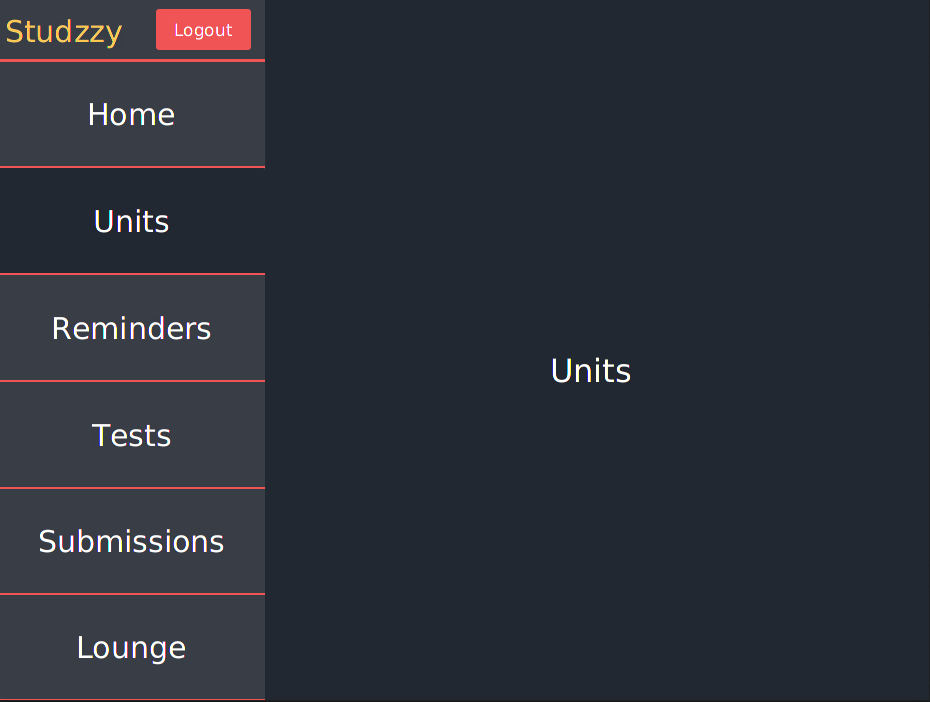
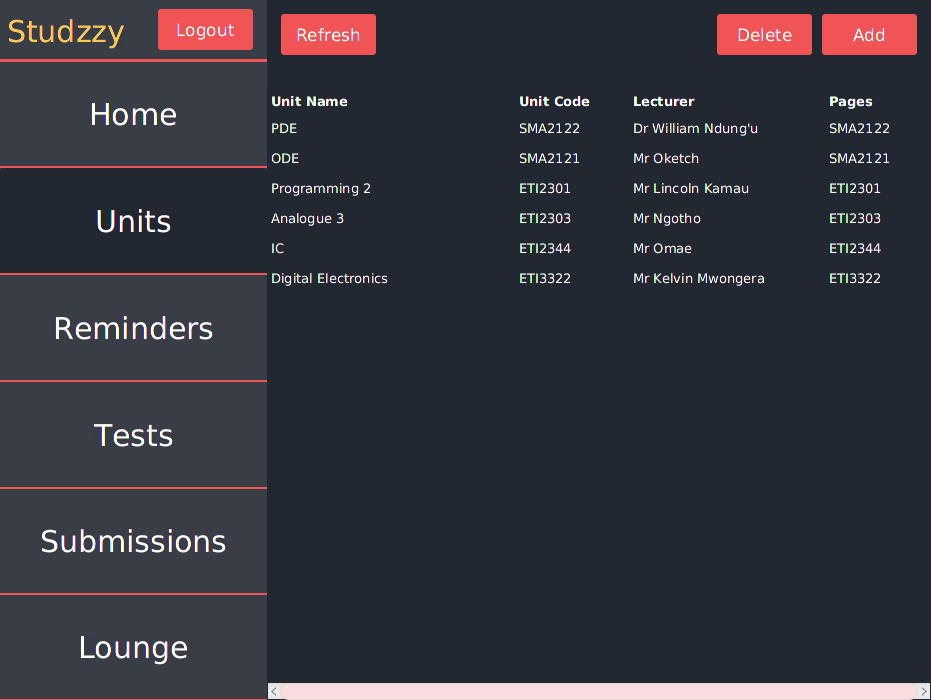
added the table view and enabled the search field

diff --git a/src/application/views/css/style.css b/src/application/views/css/style.css
@@ -85,17 +85,9 @@
     -fx-alignment: center-left;
     -fx-background-color: inherit;
     -fx-text-fill: white;
-    -fx-border-color: white;
-    -fx-border-width: 0 0 1 0;
+    -fx-border-width: 0;
 }
 
-.table-row-cell:selected {
-    -fx-background-color:  #F05454;
-}
-.table-row-cell:selected .text {
-    -fx-fill : white ;
-
-}
 /* scroll bar starts here */
 
 /* The increment and decrement button CSS class of scrollbar */
@@ -121,4 +113,14 @@
     -fx-background-insets: 2, 0, 0;
     -fx-background-radius: 2em;
 
+}
+
+.cta-dialog-box {
+    -fx-border-width: 2;
+    -fx-border-color: #F05454;
+    -fx-background-color: #393E46;
+}
+
+.cta-dialog-box .header-pane {
+    -fx-background-color: inherit;
 }

diff --git a/src/application/controllers/views/UnitsController.java b/src/application/controllers/views/UnitsController.java
@@ -3,24 +3,32 @@ package application.controllers.views;
 import application.controllers.UnitController;
 import application.models.Unit;
 import javafx.beans.Observable;
+import javafx.beans.value.ChangeListener;
+import javafx.beans.value.ObservableValue;
 import javafx.collections.FXCollections;
 import javafx.collections.ObservableList;
+import javafx.collections.transformation.FilteredList;
+import javafx.collections.transformation.SortedList;
 import javafx.event.ActionEvent;
 import javafx.fxml.FXML;
 import javafx.fxml.FXMLLoader;
+import javafx.fxml.Initializable;
 import javafx.scene.Node;
 import javafx.scene.Parent;
 import javafx.scene.Scene;
-import javafx.scene.control.Button;
-import javafx.scene.control.TableColumn;
-import javafx.scene.control.TableView;
+import javafx.scene.control.*;
+import javafx.scene.control.cell.PropertyValueFactory;
+import javafx.scene.layout.AnchorPane;
 import javafx.scene.layout.VBox;
 import javafx.stage.Stage;
 
 import java.io.IOException;
+import java.net.URL;
+import java.util.List;
 import java.util.Objects;
+import java.util.ResourceBundle;
 
-public class UnitsController {
+public class UnitsController implements Initializable {
 
     @FXML
     Button homeButton;
@@ -47,20 +55,81 @@ public class UnitsController {
     TableView<Unit> unitsTable;
 
     @FXML
-    VBox vBox;
+    TableColumn<Unit, String> unitNameCol;
 
-    public void populateTable(ActionEvent event) {
-        ObservableList<Unit> units = FXCollections.observableArrayList(UnitController.getUnits());
+    @FXML
+    TableColumn<Unit, String> unitCodeCol;
 
-        TableColumn<Unit, String> unitNameCol = new TableColumn<>("Unit Name");
-        TableColumn<Unit, String> unitCodeCol = new TableColumn<>("Unit Code");
-        TableColumn<Unit, String> unitLecCol = new TableColumn<>("Lecturer");
-        TableColumn<Unit, Integer> unitPagesCol = new TableColumn<>("Pages");
+    @FXML
+    TableColumn<Unit, String> lecturerCol;
 
-        unitsTable.getColumns().addAll(unitNameCol, unitCodeCol, unitLecCol, unitPagesCol);
+    @FXML
+    TableColumn<Unit, Integer> pagesCol;
 
-        vBox.getChildren().add(unitsTable);
+    @FXML
+    TextField searchTextField;
 
+    @FXML
+    DialogPane dialogPane;
+
+    ObservableList<Unit> unitsObservableList = FXCollections.observableArrayList();
+
+    @Override
+    public void initialize(URL url, ResourceBundle resourceBundle) {
+
+        List<Unit> units = UnitController.getUnits();
+
+        assert  units != null;
+        unitsObservableList.addAll(units);
+
+        unitNameCol.setCellValueFactory(new PropertyValueFactory<>("name"));
+        unitCodeCol.setCellValueFactory(new PropertyValueFactory<>("code"));
+        lecturerCol.setCellValueFactory(new PropertyValueFactory<>("lecturer"));
+        pagesCol.setCellValueFactory(new PropertyValueFactory<>("code"));
+
+        unitsTable.setItems(unitsObservableList);
+
+        FilteredList<Unit> filteredUnits = new FilteredList<>(unitsObservableList, b -> true);
+
+        // adding a change listener to the search text field
+        searchTextField.textProperty().addListener((observableValue, oldValue, newValue) -> filteredUnits.setPredicate(unitItems -> {
+
+            // if the search-field is empty then return all the values
+            if (newValue.isEmpty() || newValue.isBlank()) {
+                return true;
+            }
+
+            String searchKeyword = newValue.toLowerCase();
+
+            if(unitItems.getName().toLowerCase().contains(searchKeyword)) {
+                return true;
+            } else if (unitItems.getLecturer().toLowerCase().contains(searchKeyword)) {
+                return true;
+            } else if (unitItems.getCode().contains(searchKeyword)) {
+                return true;
+            } else {
+                return false;
+            }
+
+        }));
+
+        SortedList<Unit> sortedData = new SortedList<>(filteredUnits);
+
+        sortedData.comparatorProperty().bind(unitsTable.comparatorProperty());
+
+        unitsTable.setItems(sortedData);
+    }
+
+    public void addUnit(ActionEvent event) {
+
+    }
+
+    public void deleteUnit(ActionEvent event) {
+
+    }
+
+    public void refreshView(ActionEvent event) throws IOException {
+        setView("Units.fxml", event);
     }
 
     public void changeView(ActionEvent event) throws IOException {
